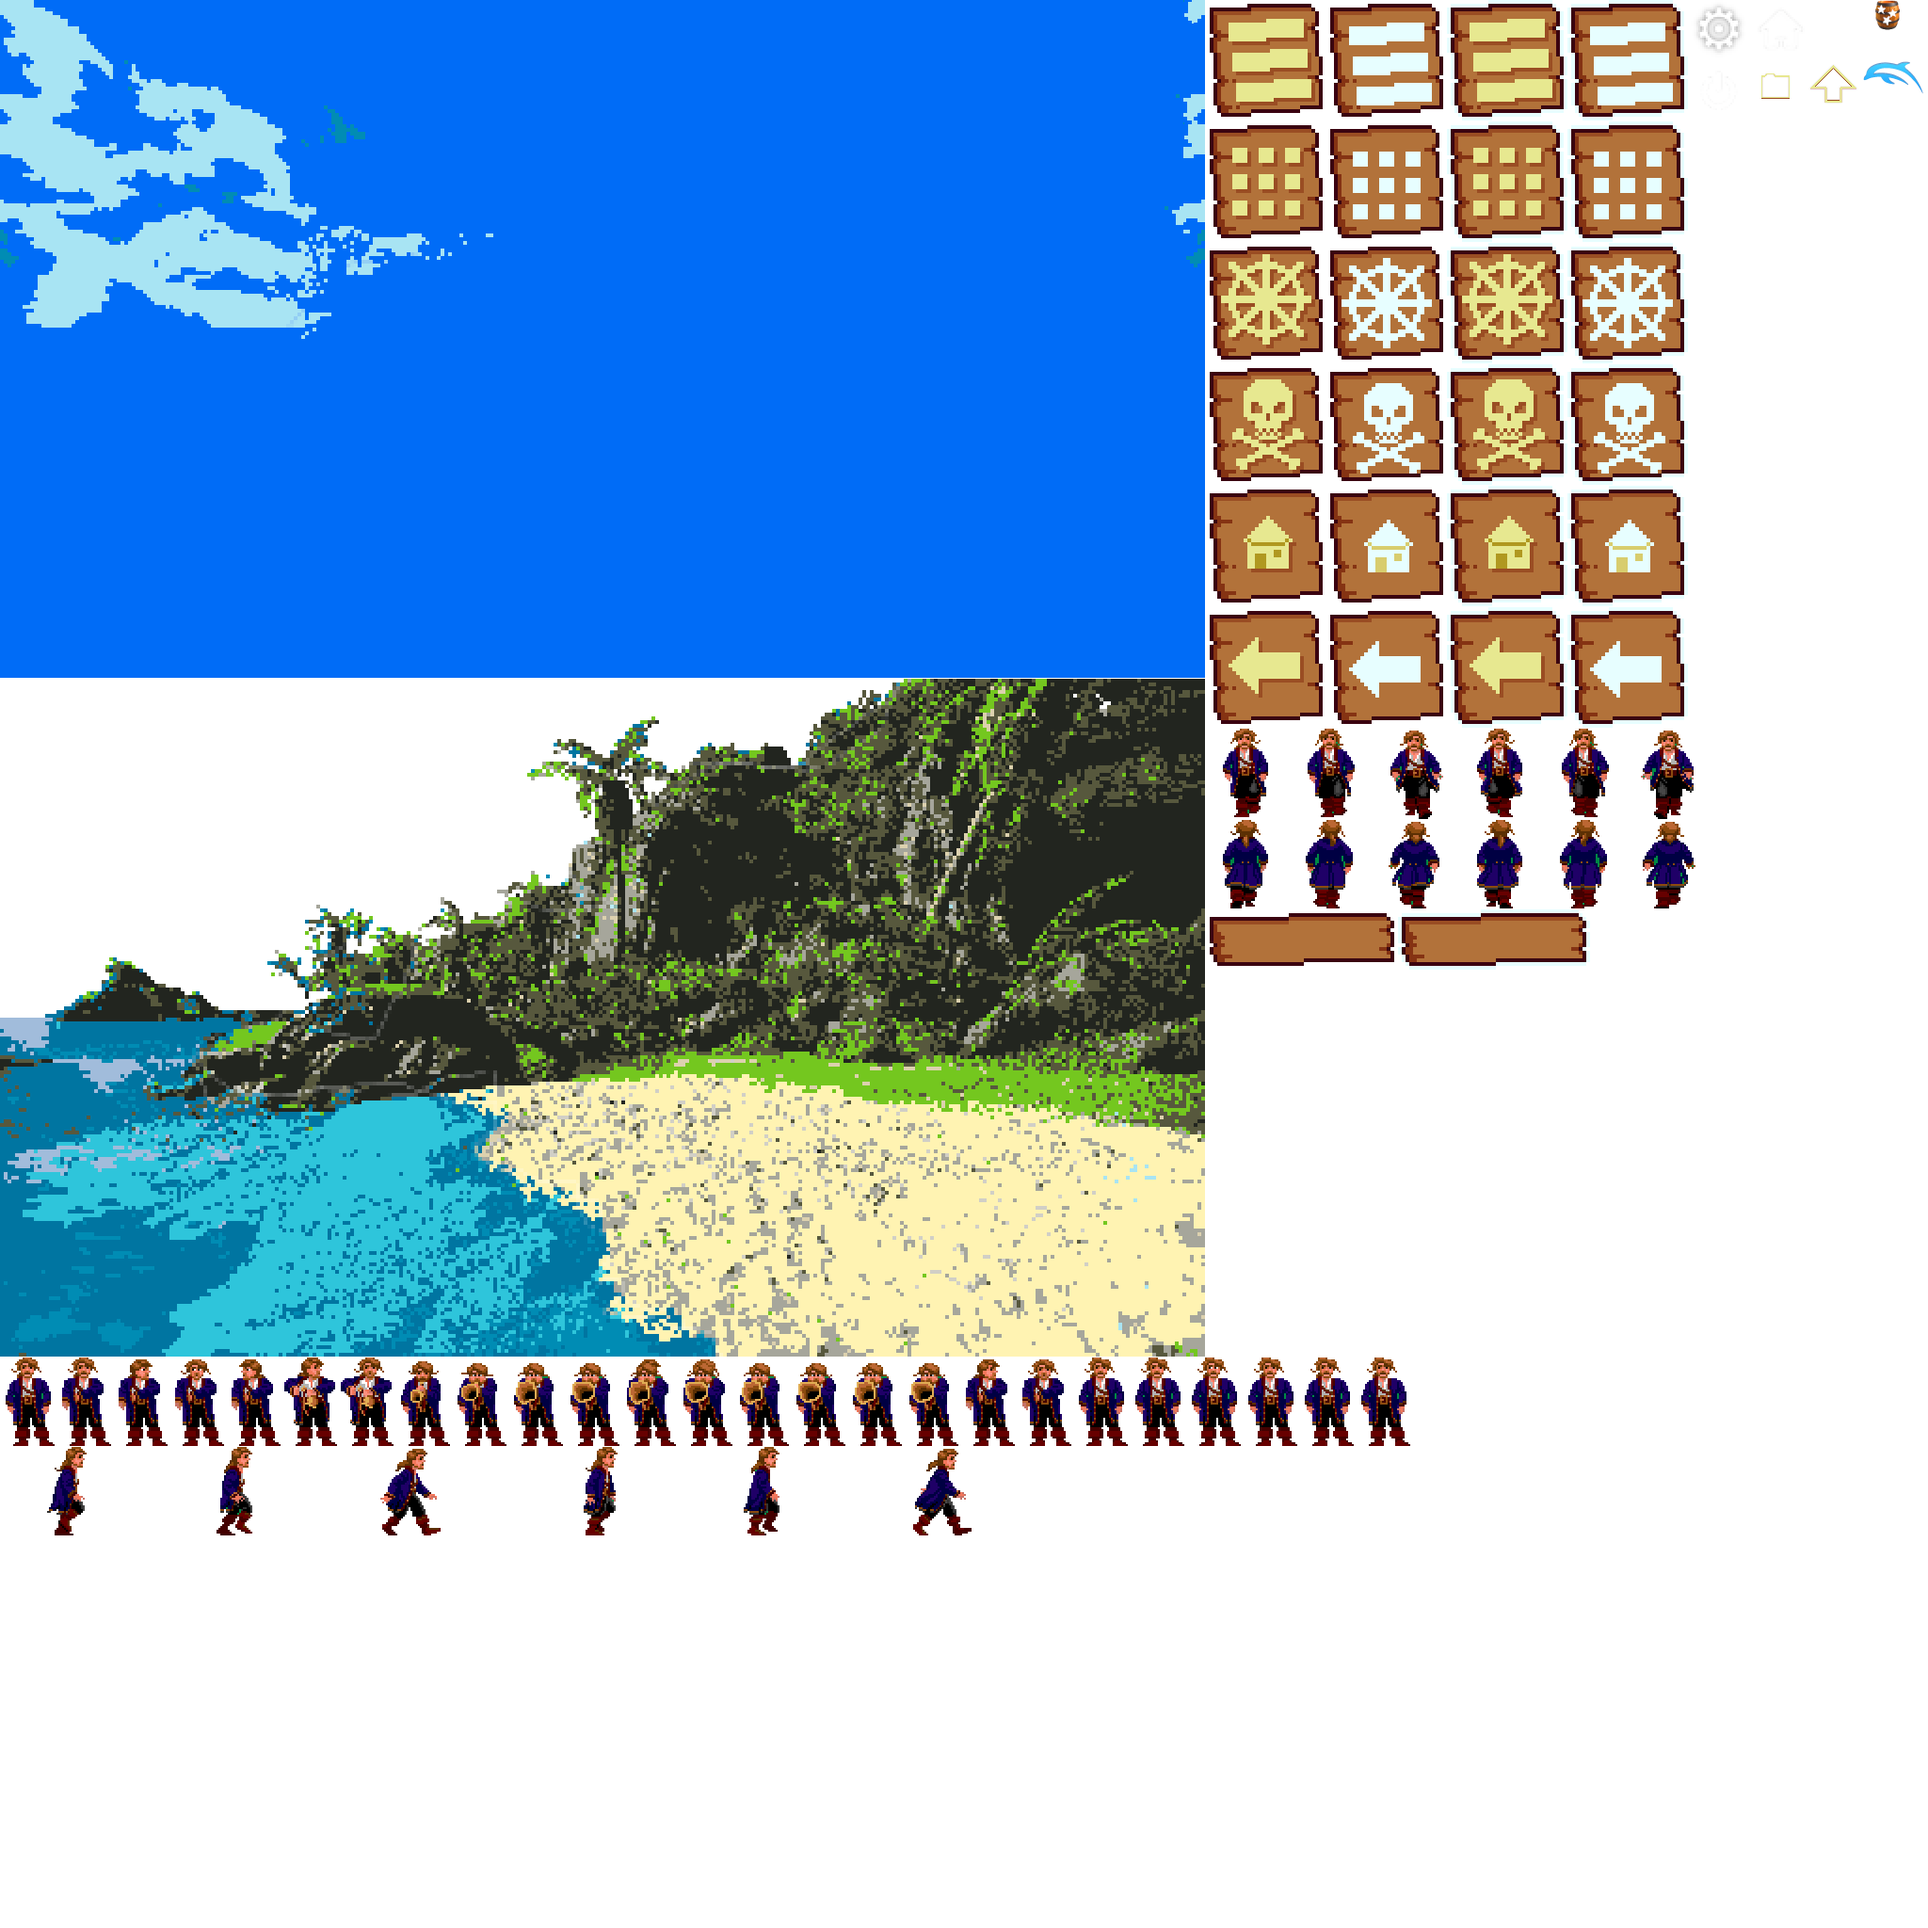
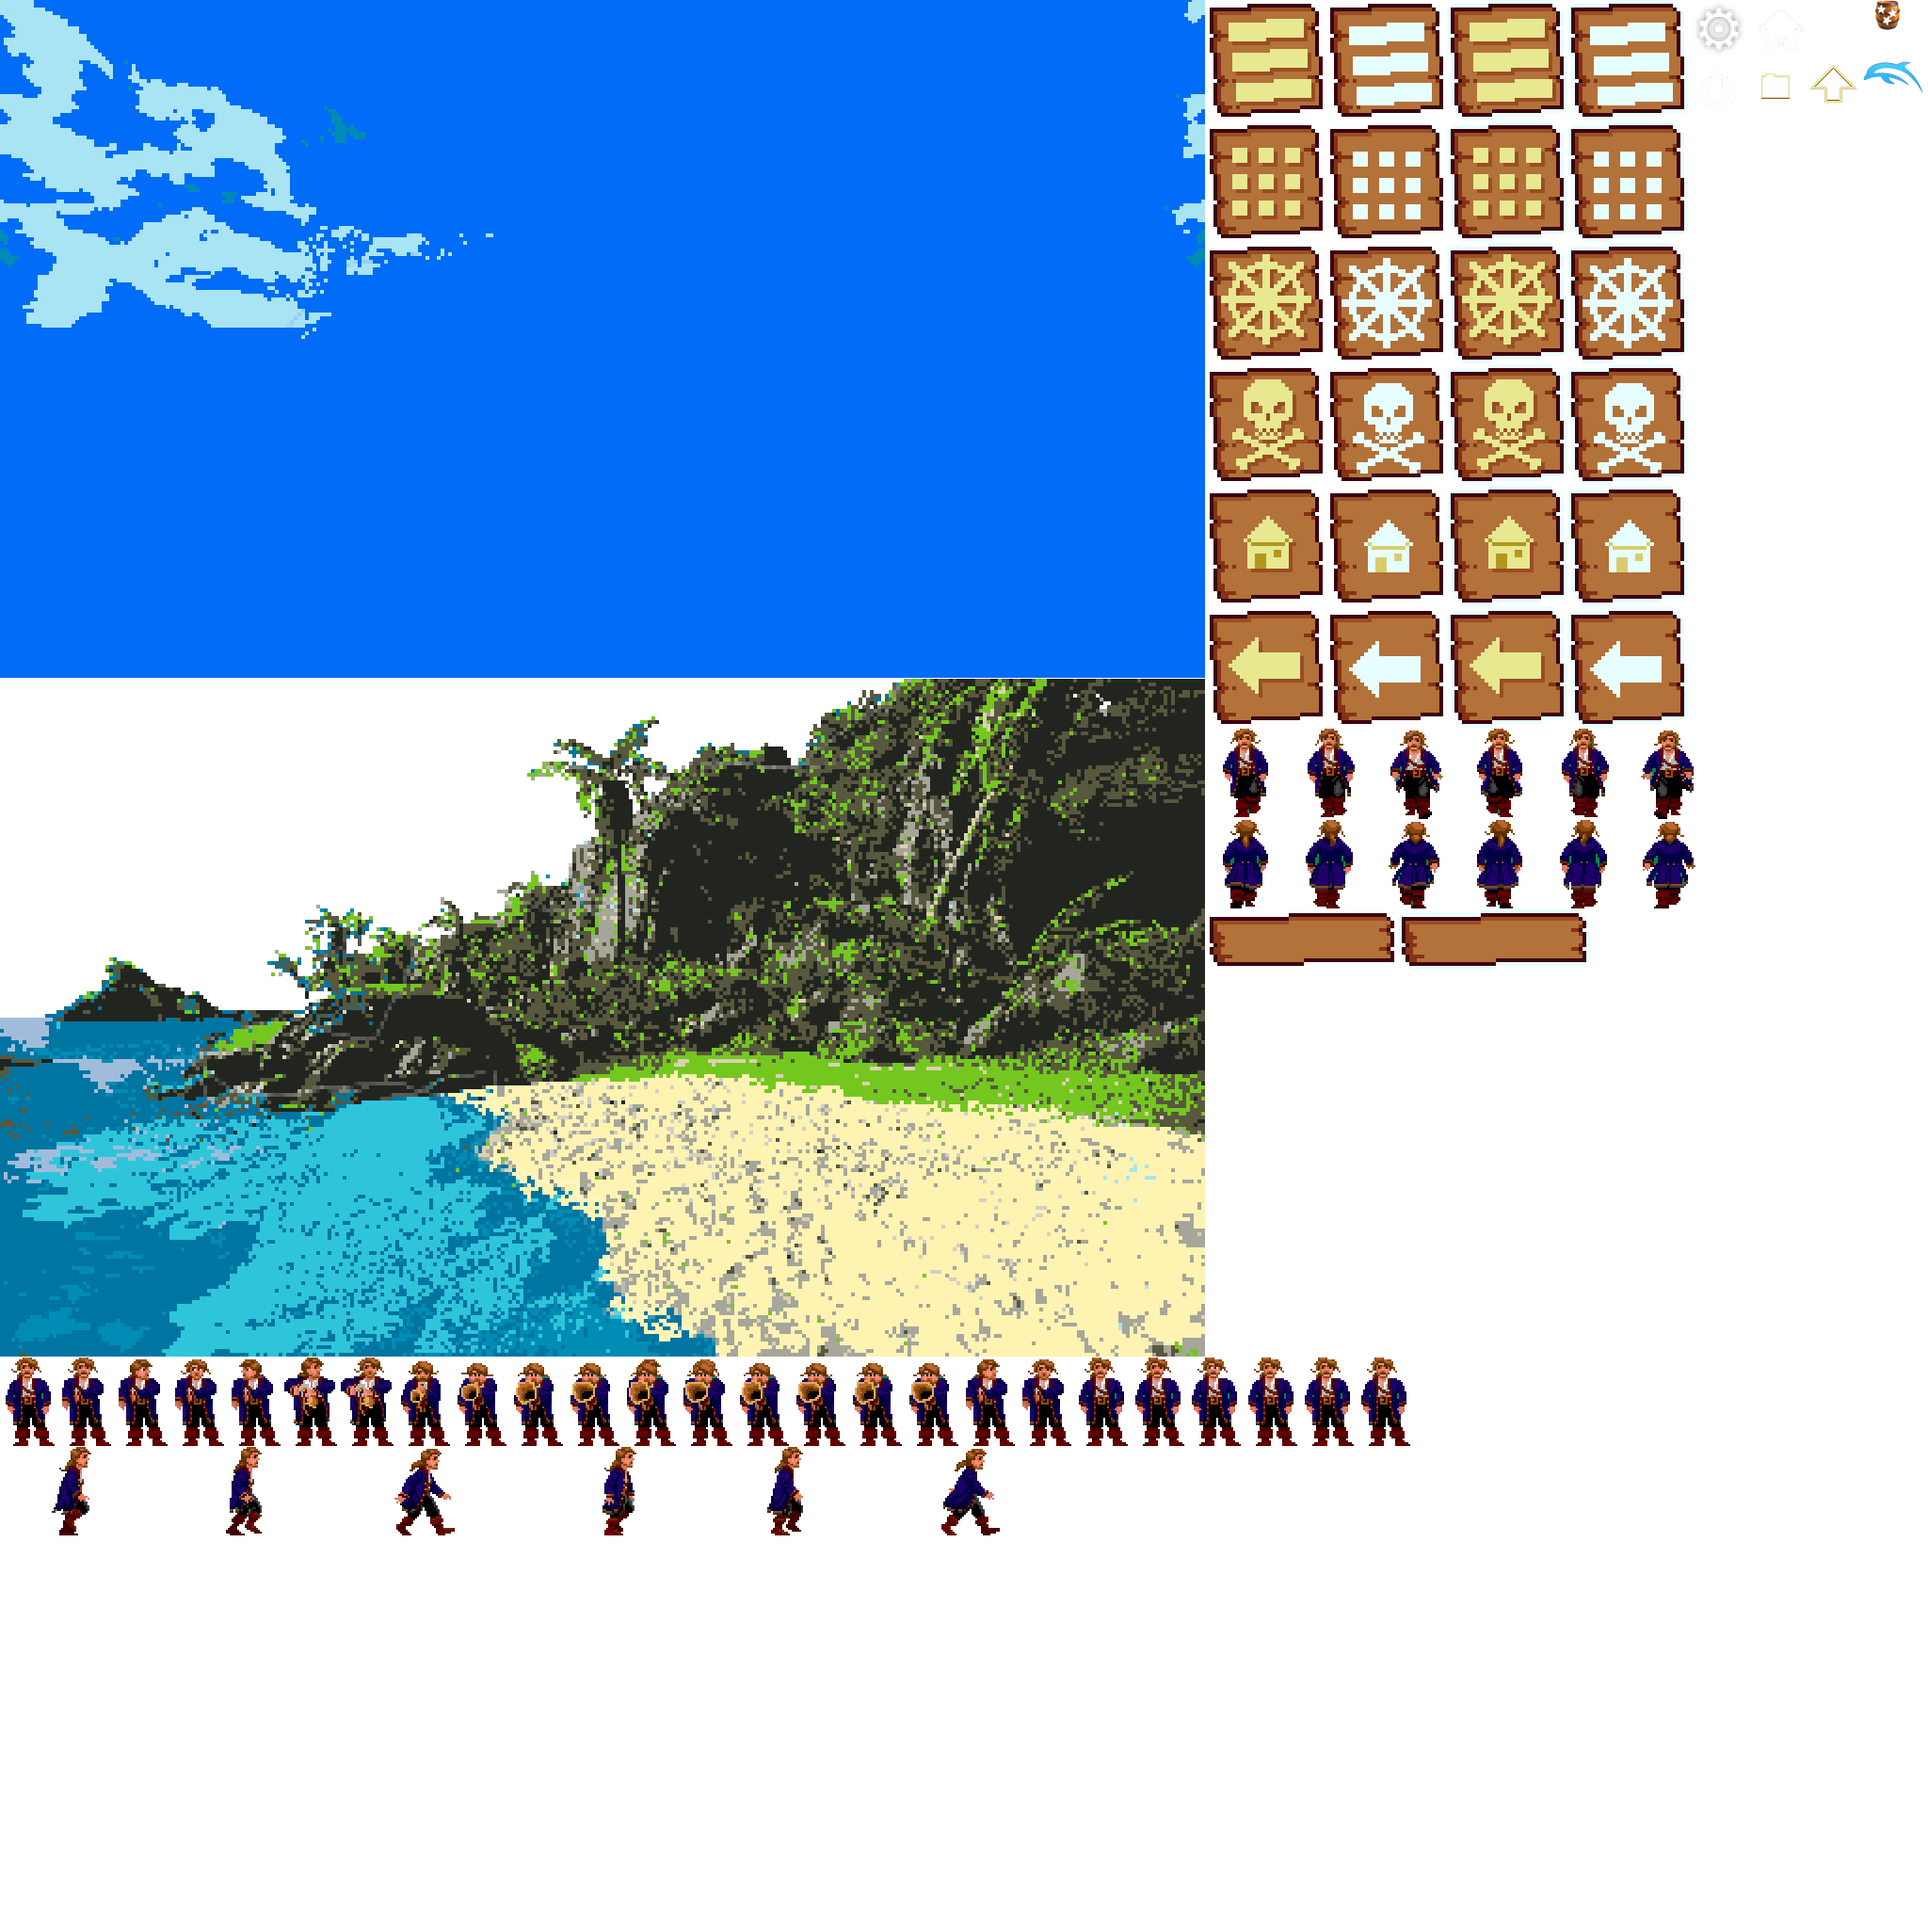
walking refined

diff --git a/application/overlay.cpp b/application/overlay.cpp
@@ -35,22 +35,28 @@ bool drawWalkArea = false;
 
 void Overlay::OnAttach() 
 { 
+    float scaleHero = 2.0f;
     // horn
-    m_SpritesheetHorn.AddSpritesheetAnimation(m_SpritesheetMarley->GetSprite(0, I_HORN), 25 /* frames */, 500 /* milliseconds per frame */, 2.0f /* scale) */);
+    m_SpritesheetHorn.AddSpritesheetAnimation(m_SpritesheetMarley->GetSprite(0, I_HORN), 25 /* frames */, 500 /* milliseconds per frame */, scaleHero /* scale) */);
     m_HornAnimation = m_SpritesheetHorn.GetSpriteAnimation();
     m_HornAnimation->Start();
     
-    m_SpritesheetWalk.AddSpritesheetAnimation(m_SpritesheetMarley->GetSprite(0, I_WALK), 6 /* frames */, 150 /* milliseconds per frame */, 2.0f /* scale) */);
+    m_SpritesheetWalk.AddSpritesheetAnimation(m_SpritesheetMarley->GetSprite(0, I_WALK), 6 /* frames */, 150 /* milliseconds per frame */, scaleHero /* scale) */);
     m_WalkAnimation = m_SpritesheetWalk.GetSpriteAnimation();
     m_WalkAnimation->Start();
-    m_GuybrushWalkDelta = 33*4.3f;
+    // 66.0f is the movement in the sprite sheet animation, 
+    // however, the hero taks a big step before the new sequence starts, 
+    // same as between frame #3 and #4.
+    // 30.0f is measured from eye to eye in frame #3 and #4
+    // see "resources/aseprite/walk.png"
+    m_GuybrushWalkDelta = 66.0f * scaleHero + 30.0f; 
     
-    m_SpritesheetWalkUp.AddSpritesheetAnimation(m_SpritesheetMarley->GetSprite(0, I_WALKUP), 6 /* frames */, 150 /* milliseconds per frame */, 2.0f /* scale) */);
+    m_SpritesheetWalkUp.AddSpritesheetAnimation(m_SpritesheetMarley->GetSprite(0, I_WALKUP), 6 /* frames */, 150 /* milliseconds per frame */, scaleHero /* scale) */);
     m_WalkUpAnimation = m_SpritesheetWalkUp.GetSpriteAnimation();
     m_WalkUpAnimation->Start();
     m_GuybrushWalkUpDelta = 12.0f;
     
-    m_SpritesheetWalkDown.AddSpritesheetAnimation(m_SpritesheetMarley->GetSprite(0, I_WALKDOWN), 6 /* frames */, 150 /* milliseconds per frame */, 2.0f /* scale) */);
+    m_SpritesheetWalkDown.AddSpritesheetAnimation(m_SpritesheetMarley->GetSprite(0, I_WALKDOWN), 6 /* frames */, 150 /* milliseconds per frame */, scaleHero /* scale) */);
     m_WalkDownAnimation = m_SpritesheetWalkDown.GetSpriteAnimation();
     m_WalkDownAnimation->Start();
     m_GuybrushWalkDownDelta = 12.0f;
@@ -58,9 +64,10 @@ void Overlay::OnAttach()
     m_WhiteTexture = Texture::Create();
     int whitePixel = 0xffffffff;
     m_WhiteTexture->Init(1, 1, &whitePixel);
-    m_WhiteSprite = new Sprite(0, 0.0f, 0.0f, 1.0f, 1.0f, m_WhiteTexture->GetWidth(), m_WhiteTexture->GetHeight(), m_WhiteTexture, "white texture", 100.0f, 100.0f);
+    m_WhiteSprite = new Sprite(0, 0.0f, 0.0f, 1.0f, 1.0f, m_WhiteTexture->GetWidth(), m_WhiteTexture->GetHeight(), m_WhiteTexture, "white texture", 4.0f, 4.0f);
     
-    m_Translation = glm::vec3(462.0f, -264.0f, 0.0f);
+    m_Translation = glm::vec3(462.0f, -430.0f, 0.0f);
+    m_FrameTranslationX = 0.0f;
 
     m_WalkArea = new Tetragon(
                                     { 211.5f, -439.5f},  // leftBottom
@@ -102,56 +109,62 @@ void Overlay::OnUpdate()
     // translation based on controller input
     glm::vec2 leftStick  = Input::GetControllerStick(Controller::FIRST_CONTROLLER, Controller::LEFT_STICK);
 
-
     //depth
     float depth, scaleDepth;
     depth = ((LIMIT_UP-m_Translation.y) / (-LIMIT_DOWN + LIMIT_UP)); // 0.0f to 1.0f
     scaleDepth = (1.0f + 0.65f * depth) * 0.6f;
 
     glm::vec3 translation = m_Translation;
-    float frameTranslationX = m_FrameTranslationX;
-    bool moveRight = false;
     bool isWalking = false;
     bool stickDeflectionX = (abs(leftStick.x) > 0.1) && (abs(leftStick.x) > abs(leftStick.y));
     bool stickDeflectionY = (abs(leftStick.y) > 0.1) && (abs(leftStick.y) > abs(leftStick.x));
 
     if (stickDeflectionX)
     {
+        bool moveRight = false;
+        float frameTranslationX = m_GuybrushWalkDelta / static_cast<float>(m_WalkAnimation->GetFrames()) * m_WalkAnimation->GetCurrentFrame() * scaleDepth;
+        
         if (leftStick.x > 0)
         {
-            moveRight = true;
-            if (!m_WalkAnimation->IsRunning()) 
+            // moving to the right
+            if (m_WalkArea->IsInBounds(glm::vec3(translation.x+frameTranslationX, translation.y, 0.0f)))
             {
-                m_WalkAnimation->Start();
-                translation.x += m_GuybrushWalkDelta;
-                frameTranslationX = 0.0f;
-            }
-            else
-            {
-                frameTranslationX = m_GuybrushWalkDelta / static_cast<float>(m_WalkAnimation->GetFrames()) * m_WalkAnimation->GetCurrentFrame();
+                isWalking = true;
+                moveRight = true;
+                if (!m_WalkAnimation->IsRunning()) 
+                {
+                    m_WalkAnimation->Start();
+                    m_Translation.x += m_GuybrushWalkDelta * scaleDepth;
+                    frameTranslationX = 0.0f;
+                }
             }
         }
         else
         {
-            moveRight = false;
-            if (!m_WalkAnimation->IsRunning()) 
+            // moving to the left
+            if (m_WalkArea->IsInBounds(glm::vec3(translation.x-frameTranslationX, translation.y, 0.0f)))
             {
-                m_WalkAnimation->Start();
-                translation.x -= m_GuybrushWalkDelta;
-                frameTranslationX = 0.0f;
-            }
-            else
-            {
-                frameTranslationX = -m_GuybrushWalkDelta / static_cast<float>(m_WalkAnimation->GetFrames()) * m_WalkAnimation->GetCurrentFrame();
+                isWalking = true;
+                moveRight = false;
+                if (!m_WalkAnimation->IsRunning()) 
+                {
+                    m_WalkAnimation->Start();
+                    m_Translation.x -= m_GuybrushWalkDelta * scaleDepth;
+                    frameTranslationX = 0.0f;
+                }
+                else
+                {
+                    frameTranslationX = -frameTranslationX;
+                }
             }
         }
         
-        if (m_WalkArea->IsInBounds(translation))
+        if (isWalking)
         {
-            isWalking = true;
-            m_Translation = translation;
+            // latch frame translation only when an actual movement is possible
             m_FrameTranslationX = frameTranslationX;
             
+            // render transformed sprite
             m_SpritesheetWalk.BeginScene();
         
             Sprite* sprite = m_WalkAnimation->GetSprite();
@@ -165,30 +178,44 @@ void Overlay::OnUpdate()
     
             m_Renderer->Draw(sprite, position, -0.1f, !moveRight);
         }
+        else if (m_FrameTranslationX) // hero out of bounds
+        {
+            // flush walking sprite sheet frame translation into hero model
+            m_Translation.x += m_FrameTranslationX;
+            m_FrameTranslationX = 0.0f;
+        }
     }
     else
     {
         m_WalkAnimation->Start();
-    }
-    
-    if (stickDeflectionY && (leftStick.y > 0))
-    {
         
-        static uint prevFrame = 0;
-        uint frame = m_WalkUpAnimation->GetCurrentFrame();
-        if (prevFrame != frame)
+        if (m_FrameTranslationX)
         {
-            translation.y += m_GuybrushWalkUpDelta;
-            prevFrame = frame;
+            // flush walking sprite sheet frame translation into hero model
+            m_Translation.x += m_FrameTranslationX;
+            m_FrameTranslationX = 0.0f;
         }
-        if (!m_WalkUpAnimation->IsRunning()) 
-        {
-            m_WalkUpAnimation->Start();
-        }
-        if (m_WalkArea->IsInBounds(translation))
+    }
+    // walk up
+    if (stickDeflectionY && (leftStick.y > 0) && !isWalking)
+    {
+        if (m_WalkArea->IsInBounds(glm::vec3(translation.x, translation.y+m_GuybrushWalkUpDelta, 0.0f)))
         {
             isWalking = true;
-            m_Translation = translation;
+            
+            // start if not running
+            if (!m_WalkUpAnimation->IsRunning()) 
+            {
+                m_WalkUpAnimation->Start();
+            }
+            
+            // update model position for a new sprite sheet frame
+            if (m_WalkUpAnimation->IsNewFrame())
+            {
+                m_Translation.y += m_GuybrushWalkUpDelta;
+            }
+            
+            // render transformed sprite
             m_SpritesheetWalkUp.BeginScene();
     
             Sprite* sprite = m_WalkUpAnimation->GetSprite();
@@ -207,26 +234,27 @@ void Overlay::OnUpdate()
     {
         m_WalkUpAnimation->Start();
     }
-
-    if (stickDeflectionY && (leftStick.y < 0))
+    
+    // walk down
+    if (stickDeflectionY && (leftStick.y < 0) && !isWalking)
     {
-        static uint prevFrame = 0;
-        uint frame = m_WalkDownAnimation->GetCurrentFrame();
-        if (prevFrame != frame)
-        {
-            translation.y -= m_GuybrushWalkDownDelta;
-            prevFrame = frame;
-        }
-        if (!m_WalkDownAnimation->IsRunning()) 
-        {
-            m_WalkDownAnimation->Start();
-        }
-        
-        if (m_WalkArea->IsInBounds(translation))
+        if (m_WalkArea->IsInBounds(glm::vec3(translation.x, translation.y-m_GuybrushWalkDownDelta, 0.0f)))
         {
             isWalking = true;
-            m_Translation = translation;
-
+            
+            // start if not running
+            if (!m_WalkDownAnimation->IsRunning()) 
+            {
+                m_WalkDownAnimation->Start();
+            }
+            
+            // update model position for a new sprite sheet frame
+            if (m_WalkDownAnimation->IsNewFrame())
+            {
+                m_Translation.y -= m_GuybrushWalkDownDelta;
+            }
+            
+            // render transformed sprite
             m_SpritesheetWalkDown.BeginScene();
             
             Sprite* sprite = m_WalkDownAnimation->GetSprite();
@@ -265,6 +293,14 @@ void Overlay::OnUpdate()
     else
     {
         m_HornAnimation->Start();
+    }
+    
+    if (drawWalkArea)
+    {
+        glm::mat4 position = Scale({10.0f,10.0f,0.0f}) * m_WhiteSprite->GetScaleMatrix();
+        
+        m_Renderer->Draw(m_WhiteSprite, Translate(m_Translation) * position, -0.5f);
+        
     }
 }
 

diff --git a/engine/spritesheet/spritesheet.cpp b/engine/spritesheet/spritesheet.cpp
@@ -132,6 +132,7 @@ Sprite* SpriteAnimation::GetSprite()
 
 void SpriteAnimation::Start()
 { 
+    m_PreviousFrame = -1;
     m_StartTime = Engine::m_Engine->GetTime();
 }
 
@@ -143,6 +144,14 @@ bool SpriteAnimation::IsRunning()
 uint SpriteAnimation::GetCurrentFrame() const 
 { 
     return static_cast<uint>((Engine::m_Engine->GetTime() - m_StartTime) * m_TimeFactor); 
+}
+
+bool SpriteAnimation::IsNewFrame()
+{ 
+    uint currentFrame = GetCurrentFrame();
+    bool isNewFrame = (currentFrame != m_PreviousFrame);
+    m_PreviousFrame = currentFrame;
+    return isNewFrame;
 }
 
 SpriteSheet::SpriteSheet()

diff --git a/engine/spritesheet/spritesheet.h b/engine/spritesheet/spritesheet.h
@@ -84,6 +84,7 @@ public:
     void Create(uint frames, uint millisecondsPerFrame, SpriteSheet* spritesheet);
     uint GetFrames() const { return m_Frames; }
     uint GetCurrentFrame() const;
+    bool IsNewFrame();
     void Start();
     bool IsRunning();
     Sprite* GetSprite();
@@ -94,6 +95,7 @@ private:
     double m_StartTime = 0;
     double m_Duration;
     float m_TimeFactor;
+    uint m_PreviousFrame;
 };
 
 typedef std::vector<Sprite> SpriteTable;           // a table of sprites

diff --git a/resources/images/ui_atlas/ui_atlas.cpp b/resources/images/ui_atlas/ui_atlas.cpp
@@ -4,7 +4,7 @@
 
 const AtlasImage ui_images[21] = {
   {0.000244f, 0.704346f, 0.732178f, 0.749756f, 1500, 94, "I_HORN"},
-  {0.000244f, 0.750732f, 0.503662f, 0.796143f, 1032, 94, "I_WALK"},
+  {0.000244f, 0.750732f, 0.518311f, 0.796143f, 1062, 94, "I_WALK"},
   {0.625732f, 0.378174f, 0.888916f, 0.424561f, 540, 96, "I_WALKDOWN"},
   {0.625732f, 0.425537f, 0.888916f, 0.470947f, 540, 94, "I_WALKUP"},
   {0.876221f, 0.000244f, 0.906982f, 0.031006f, 64, 64, "I_GEAR"},
